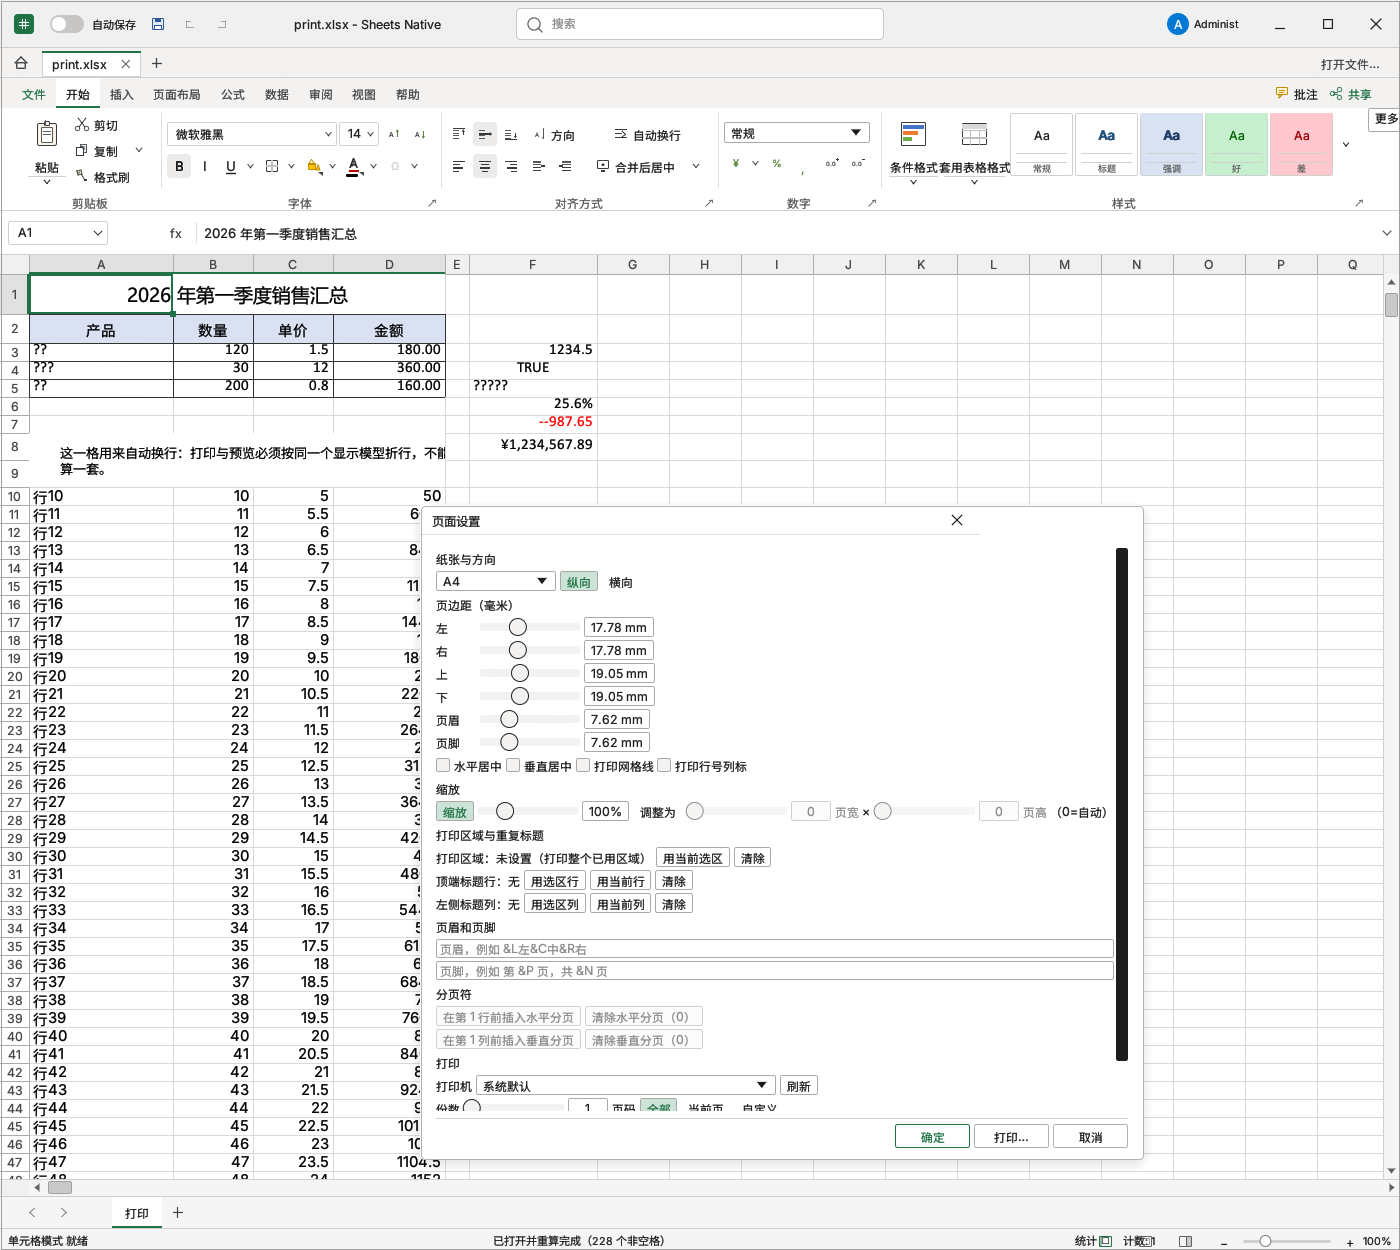
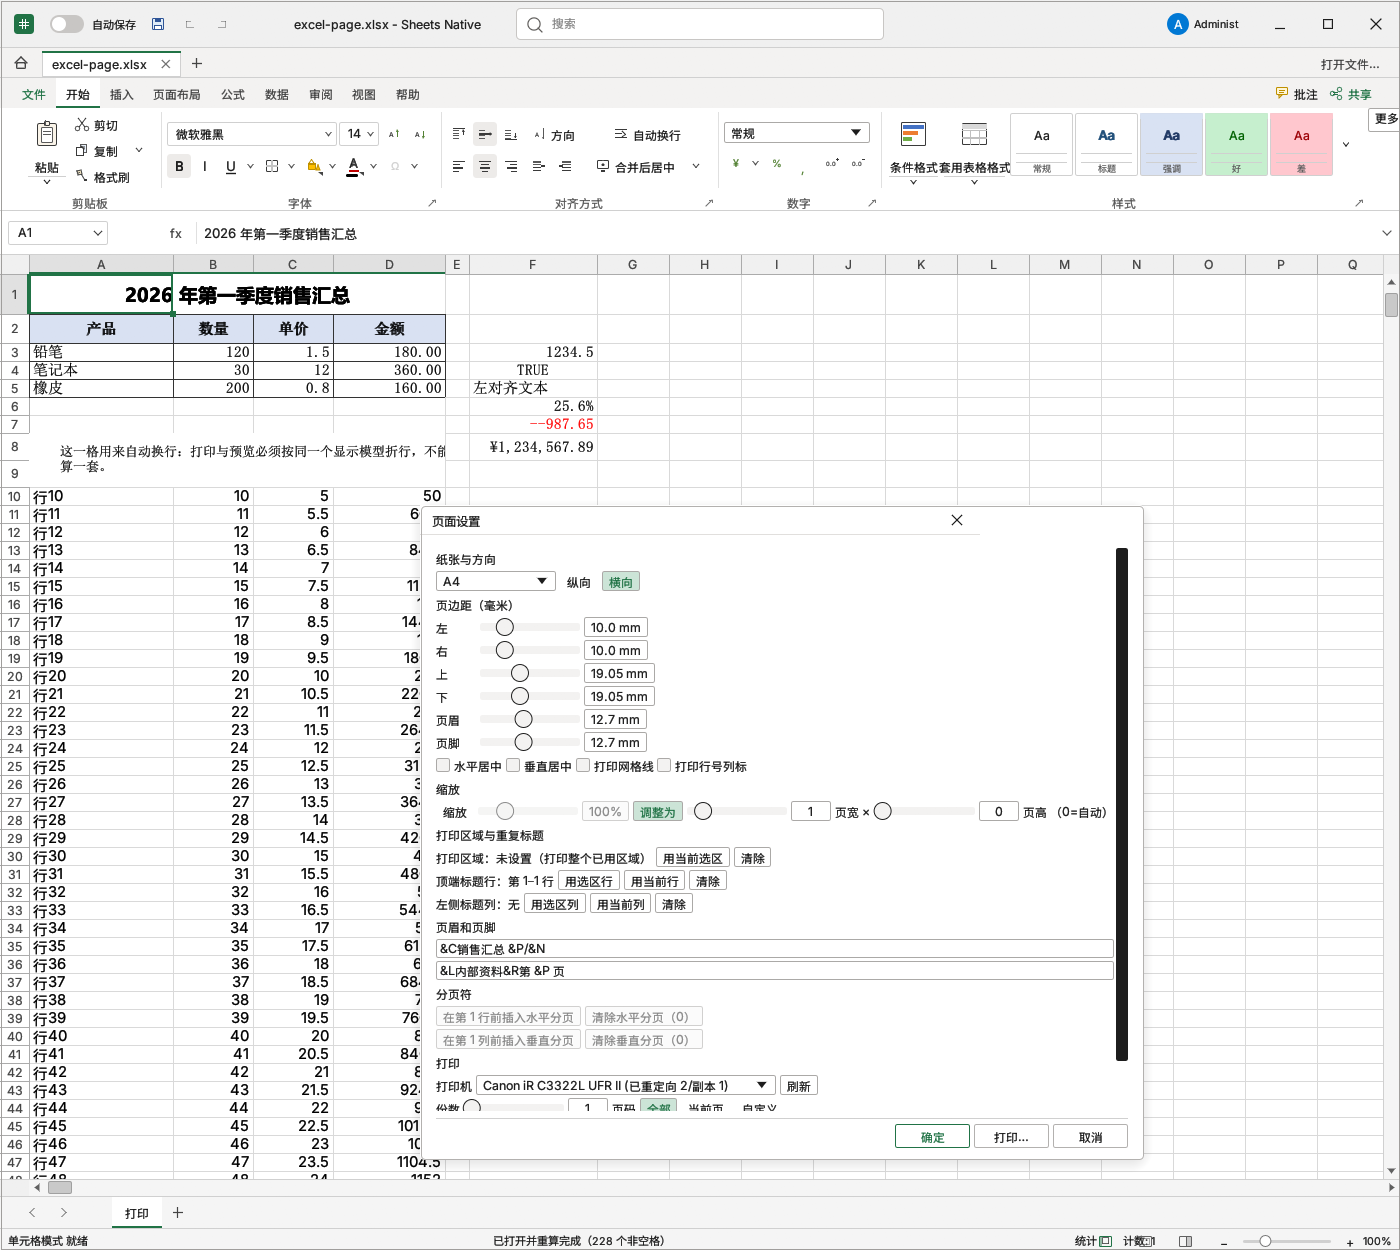
fix(page): honor Excel fitToPage flag when fitToWidth is omitted
UI-26 复核发现：Excel 保存的验收版式只有 pageSetUpPr@fitToPage=1 和 fitToHeight=0，省略默认 fitToWidth=1，旧解析会误判为 100% 缩放。改为以 fitToPage 为权威开关并补默认页宽；截图与证据同步。

diff --git a/crates/core/src/page.rs b/crates/core/src/page.rs
@@ -240,12 +240,22 @@ pub fn parse_page_setup(xml: &str) -> PageSetup {
     let mut in_header = false;
     let mut in_footer = false;
     let mut buf = String::new();
+    let mut fit_flag = false;
+    let mut saw_fit_width = false;
+    let mut saw_fit_height = false;
     loop {
         match r.read_event() {
             Ok(Event::Empty(e)) | Ok(Event::Start(e)) => {
                 let nm = e.name();
                 let name = nm.as_ref();
-                if name.ends_with("pageSetup") {
+                if name.ends_with("pageSetUpPr") {
+                    for a in e.attributes().flatten() {
+                        if a.key.as_ref() == "fitToPage" {
+                            let v = a.value.to_string();
+                            fit_flag = v == "1" || v == "true";
+                        }
+                    }
+                } else if name.ends_with("pageSetup") {
                     for a in e.attributes().flatten() {
                         let k = a.key.as_ref();
                         let v = crate::model::xml_unescape(&a.value.to_string());
@@ -255,16 +265,17 @@ pub fn parse_page_setup(xml: &str) -> PageSetup {
                             "scale" => ps.scale = v.parse().unwrap_or(100),
                             "fitToWidth" => {
                                 ps.fit_width = v.parse().unwrap_or(0);
+                                saw_fit_width = true;
                             }
                             "fitToHeight" => {
                                 ps.fit_height = v.parse().unwrap_or(0);
+                                saw_fit_height = true;
                             }
                             _ => {}
                         }
                     }
-                    // 只有某一方向的页数 >0 才是「调整为合适大小」；
-                    // fitToWidth="1" fitToHeight="0" = 1 页宽、高度自动
-                    ps.fit_to_page = ps.fit_width > 0 || ps.fit_height > 0;
+                    // pageSetUpPr@fitToPage 是权威开关；Excel 常省略默认的
+                    // fitToWidth="1"，只写 fitToHeight="0"（高度自动）。
                 } else if name.ends_with("pageMargins") {
                     for a in e.attributes().flatten() {
                         let k = a.key.as_ref();
@@ -329,6 +340,15 @@ pub fn parse_page_setup(xml: &str) -> PageSetup {
             _ => {}
         }
     }
+    if fit_flag {
+        if !saw_fit_width {
+            ps.fit_width = 1;
+        }
+        if !saw_fit_height {
+            ps.fit_height = 1;
+        }
+    }
+    ps.fit_to_page = fit_flag || ps.fit_width > 0 || ps.fit_height > 0;
     // 手动分页
     for (tag, is_row) in [("rowBreaks", true), ("colBreaks", false)] {
         let Some(start) = xml.find(&format!("<{tag}")) else { continue };
@@ -646,5 +666,22 @@ mod tests {
         ps.fit_height = 1;
         let by_h = ps.scale_factor(&s);
         assert!(by_h < 1.0, "100 行必须缩到一页: {by_h}");
+    }
+}
+
+#[cfg(test)]
+mod fit_flag_tests {
+    use super::*;
+
+    #[test]
+    fn excel_fit_flag_without_fit_width_means_one_page_wide() {
+        let xml = "<worksheet><sheetPr><pageSetUpPr fitToPage=\"1\"/></sheetPr>\
+            <pageSetup paperSize=\"9\" fitToHeight=\"0\" orientation=\"landscape\"/>\
+            </worksheet>";
+        let ps = parse_page_setup(xml);
+        assert!(ps.landscape);
+        assert!(ps.fit_to_page);
+        assert_eq!(ps.fit_width, 1, "Excel 省略默认的 fitToWidth=1");
+        assert_eq!(ps.fit_height, 0, "fitToHeight=0 是自动");
     }
 }

diff --git a/crates/app/src/main.rs b/crates/app/src/main.rs
@@ -1951,7 +1951,7 @@ impl SheetApp {
             cf_mgr: false,
             last_import: None,
             room_lost: false,
-            page_setup_open: std::env::var("SC_PAGE_DLG").map(|v| v == "1").unwrap_or(false),
+            page_setup_open: false,
             page_setup_draft: sheetcore::page::PageSetup::default(),
             page_setup_orig: None,
             page_setup_printers: Vec::new(),
@@ -12804,6 +12804,13 @@ let txn = self.txn_begin(&keys);
         let page = self.wb.sheet(self.sheet_idx).page.clone();
         let dirty = self.wb.sheet(self.sheet_idx).page_dirty;
         self.page_setup_orig = Some((page.clone(), dirty, self.wb.dirty));
+        if std::env::var("SC_PAGE_LOG").is_ok() {
+            eprintln!(
+                "[page] landscape={} paper={} fit={} w={} h={} scale={} titles={:?} margins={:?}",
+                page.landscape, page.paper, page.fit_to_page, page.fit_width, page.fit_height,
+                page.scale, page.title_rows, page.margins
+            );
+        }
         self.page_setup_draft = page;
         self.page_setup_open = true;
         if self.page_setup_printers.is_empty() {

diff --git a/crates/app/src/ribbon/actions.rs b/crates/app/src/ribbon/actions.rs
@@ -648,6 +648,8 @@ impl SheetApp {
             "InsertSlicer" => self.slicer_open(),
 
             // ---------------------------------------------------- 页面布局
+            // UI-26：页面设置入口（功能区/命令搜索/探针共用）
+            "PageSetup" => self.open_page_setup(),
             // UI-26：方向/纸型/边距不再循环切换，统一进页面设置做明确选择。
             "PageOrientation" | "PaperSize" | "PageMargins" => self.open_page_setup(),
             "TogglePrintGridlines" => {
